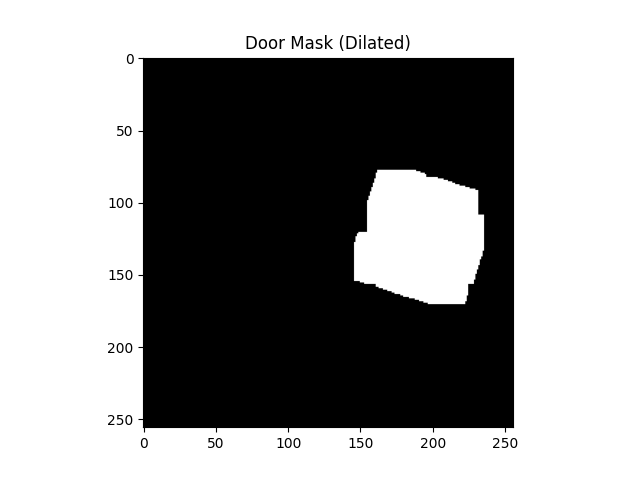
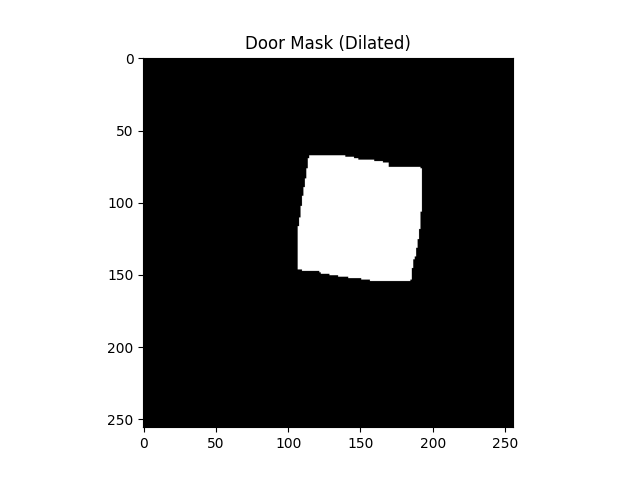
update final

Changed region(s): [[0.4375, 0.3125, 0.7812, 0.6562]]

diff --git a/final/run.py b/final/run.py
@@ -240,7 +240,7 @@ class Experiment:
         self.move_robot_joint(
             target_joint_pos=None,  # Arm doesn't move
             target_gripper_pos=self.gripper_open_val,
-            count=15, # Use a few steps to make it a smooth open
+            count=25, # Use a few steps to make it a smooth open
             time_for_residual_movement=5
         )
         
@@ -250,7 +250,7 @@ class Experiment:
         self.move_robot_joint(
             target_joint_pos=None,  # Arm doesn't move
             target_gripper_pos=self.gripper_close_val,
-            count=15, # Use a few steps to make it a smooth close
+            count=25, # Use a few steps to make it a smooth close
             time_for_residual_movement=5
         )
 
@@ -261,7 +261,7 @@ class Experiment:
     
         # Reset the environment (Relies on default states defined in task_envs.py)
         self.scene.reset()
-        
+        fixed_quat = self.robot_quat.copy()
         # Update internal robot pose trackers after reset
         self.robot_pose = self.scene['ur5e'].data.body_state_w[0, self.scene['ur5e'].find_bodies(self.ik_body)[0][0], :7].detach().cpu().numpy()
         self.robot_pos = self.robot_pose[:3]
@@ -599,16 +599,34 @@ class Experiment:
 
         blocking_ids = [info['cid'] for info in red_blocking_infos]
         
-        # 筛选出 safe cubes (不在 blocking 列表中的)
-        safe_red_infos = [info for info in red_infos if info['cid'] not in blocking_ids]
-        
+        # === 新增：定义桌子边界和安全边距 ===
+        # 根据你提供的数据
+        table_min_x, table_max_x = 0.15, 0.85
+        table_min_y, table_max_y = -0.35, 0.35
+        # 设置安全边距，例如 5cm (0.05m)，保证方块中心离边缘至少有这么远
+        edge_margin = 0.12
+
+        # === 修改：筛选 Safe Cubes (非阻挡 + 不在边缘) ===
+        safe_red_infos = []
+        for info in red_infos:
+            # 1. 排除阻挡方块
+            if info['cid'] in blocking_ids:
+                continue
+            
+            # 2. 检查是否在桌子边缘
+            cx, cy = info['stats']['centroid_xy']
+            is_on_edge = (cx < table_min_x + edge_margin) or \
+                         (cx > table_max_x - edge_margin) or \
+                         (cy < table_min_y + edge_margin) or \
+                         (cy > table_max_y - edge_margin)
+            
+            if is_on_edge:
+                print(f"  Skipping unsafe cube ID {info['cid']} (Too close to edge: {cx:.2f}, {cy:.2f})")
+                continue
+            
+            # 如果既不是阻挡，又不在边缘，则为安全
+            safe_red_infos.append(info)
         # 定义距离计算函数
-        def get_distance_to_door(info):
-            stats = info['stats']
-            # 使用物体的质心 (Centroid XY) 和顶部高度 (Top Z) 组成 3D 坐标
-            cube_pos = np.array([stats['centroid_xy'][0], stats['centroid_xy'][1], stats['top_z']])
-            return np.linalg.norm(cube_pos - door_center_3d)
-        safe_red_infos.sort(key=get_distance_to_door, reverse=True)
         
         print(f"Safe Red Cubes available: {len(safe_red_infos)}")
 
@@ -616,20 +634,18 @@ class Experiment:
         # 我们只能搬运 min(blocking数量, safe数量) 个物体
         num_to_move = min(len(red_blocking_infos), len(safe_red_infos))
         
-        
-
-        fixed_quat = self.robot_quat.copy() 
+         
         
         # 定义高度参数
-        z_travel_height = 0.50  # 搬运过程中的高空飞行高度 (非常安全)
-        z_hover_height = 0.35   # 准备抓取/放置时的悬停高度
+        z_travel_height = 0.35  # 搬运过程中的高空飞行高度 (非常安全)
+        z_hover_height = 0.4   # 准备抓取/放置时的悬停高度
         
         # 抓取高度微调 (根据你之前的需求，这里设为负数表示“悬空抓取”，正数表示“压下去抓”)
         # 如果你想“垂直下降再抓住”，建议设为 0 或者 -0.005 (稍微接触表面)
-        z_offset_grasp = 0.005 
+        z_offset_grasp = 0.012 
         z_offset_stack = 0.025
 
-        for i in range(1):
+        for i in range(num_to_move):
             block_cube = red_blocking_infos[i]
             target_base = safe_red_infos[i]
             
@@ -638,43 +654,43 @@ class Experiment:
             # --- 准备抓取数据 ---
             # 抓取位置
             pick_xy = block_cube['stats']['centroid_xy']
-            pick_z = block_cube['stats']['top_z'] 
+            pick_z = block_cube['stats']['top_z'] +z_offset_grasp
             
             # 放置位置 (目标是 Safe Cube 的顶部)
             place_xy = target_base['stats']['centroid_xy']
-            place_z = target_base['stats']['top_z'] + z_offset_stack
+            place_z = target_base['stats']['top_z'] + 0.04 + z_offset_stack
             
             # --- 动作序列 ---
-            # 1. 确保夹爪张开
-            self.open_gripper()
+         
 
             # 2. 提升到安全高度 (Lift to Travel Height)
             # 先在当前位置垂直抬升，避免横向撞击
             current_xy = self.robot_pos[:2]
-            self.move_robot_ik(np.concatenate([current_xy, [z_travel_height], fixed_quat]))
+            # self.move_robot_ik(np.concatenate([current_xy, [z_travel_height], fixed_quat]))
 
             # 3. 平移到目标正上方 (Move XY to Hover)
             # 在高空平移，此时 Z 轴不变，只变 XY
             hover_pose = np.concatenate([pick_xy, [z_travel_height], fixed_quat])
             self.move_robot_ik(hover_pose)
+            self.open_gripper()
             
             # 如果需要，可以再降到一个较低的悬停点 (Optional Pre-grasp Hover)
             pre_grasp_pose = np.concatenate([pick_xy, [z_hover_height], fixed_quat])
-            self.move_robot_ik(pre_grasp_pose)
+            # self.move_robot_ik(pre_grasp_pose)
 
             # 4. 垂直下降 (Vertical Descent)
             # 这里的关键是：XY 坐标不变，只改变 Z，且使用 fixed_quat 锁死姿态
             print("Descending vertically...")
             pick_pose = np.concatenate([pick_xy, [pick_z], fixed_quat])
             self.move_robot_ik(pick_pose)
-            self.sim_wait(15) # 等待稳定
+            self.sim_wait(10) # 等待稳定
 
             # 5. 抓取 (Grasp)
             self.close_gripper()
-            self.sim_wait(20)
+            self.sim_wait(15)
 
             # 6. 垂直抬起 (Vertical Lift)
-            self.move_robot_ik(pre_grasp_pose)      # 回到低悬停点
+            # self.move_robot_ik(pre_grasp_pose)      # 回到低悬停点
             self.move_robot_ik(hover_pose)          # 回到高空飞行点
 
             # 7. 平移到放置点正上方 (Move to Place)
@@ -682,7 +698,7 @@ class Experiment:
             self.move_robot_ik(place_hover_pose)
             
             place_pre_pose = np.concatenate([place_xy, [z_hover_height], fixed_quat])
-            self.move_robot_ik(place_pre_pose)
+            # self.move_robot_ik(place_pre_pose)
 
             # 8. 垂直下降放置 (Vertical Descent to Place)
             place_pose = np.concatenate([place_xy, [place_z], fixed_quat])
@@ -694,9 +710,183 @@ class Experiment:
             self.sim_wait(20)
 
             # 10. 垂直撤离 (Retreat)
-            self.move_robot_ik(place_pre_pose)
             self.move_robot_ik(place_hover_pose)
+            # self.move_robot_ik(place_hover_pose)
         print("Red Cube clearing completed.")
+
+        blocking_green_ids = [info['cid'] for info in green_blocking_infos]
+        
+        # 1. 筛选 Safe Green Cubes (非阻挡 + 不在边缘)
+        safe_green_infos = []
+        for info in green_infos:
+            if info['cid'] in blocking_green_ids:
+                continue
+            
+            cx, cy = info['stats']['centroid_xy']
+            # 使用之前定义的边界参数
+            is_on_edge = (cx < table_min_x + edge_margin) or \
+                         (cx > table_max_x - edge_margin) or \
+                         (cy < table_min_y + edge_margin) or \
+                         (cy > table_max_y - edge_margin)
+            
+            if is_on_edge:
+                print(f"  Skipping unsafe green cube ID {info['cid']} (Too close to edge)")
+                continue
+            
+            safe_green_infos.append(info)
+
+        
+        print(f"Safe Green Cubes available: {len(safe_green_infos)}")
+
+        # 3. 搬运循环
+        num_green_to_move = min(len(green_blocking_infos), len(safe_green_infos))
+        
+        # 绿色方块通常比红色略大 (Red=0.04, Green=0.05)
+        # 这个高度用于计算堆叠时的 Z 轴偏移
+        green_cube_height = 0.05 
+
+        for i in range(num_green_to_move):
+            block_cube = green_blocking_infos[i]
+            target_base = safe_green_infos[i]
+            
+            print(f"Moving Blocking Green Cube ID {block_cube['cid']} to Safe Green ID {target_base['cid']}")
+            
+            # --- 坐标计算 ---
+            pick_xy = block_cube['stats']['centroid_xy']
+            # 抓取高度保持一致
+            pick_z = block_cube['stats']['top_z'] + z_offset_grasp 
+            
+            place_xy = target_base['stats']['centroid_xy']
+            # 【注意】这里把 0.04 改为了 green_cube_height (0.05)，适应绿色方块的高度
+            place_z = target_base['stats']['top_z'] + green_cube_height + z_offset_stack
+            
+            # --- 动作序列 (Manhattan Path) ---
+            
+            # 1. 移动到抓取点上方 (Hover)
+            hover_pose = np.concatenate([pick_xy, [z_travel_height], fixed_quat])
+            self.move_robot_ik(hover_pose)
+            self.open_gripper()
+            
+            # 2. 垂直下降抓取 (Descend to Pick)
+            print("Descending vertically (Green)...")
+            pick_pose = np.concatenate([pick_xy, [pick_z], fixed_quat])
+            self.move_robot_ik(pick_pose)
+            self.sim_wait(10)
+
+            # 3. 闭合夹爪 (Grasp)
+            self.close_gripper()
+            self.sim_wait(15)
+
+            # 4. 垂直抬起 (Lift)
+            self.move_robot_ik(hover_pose)
+
+            # 5. 平移到放置点上方 (Move to Place Hover)
+            place_hover_pose = np.concatenate([place_xy, [z_travel_height], fixed_quat])
+            self.move_robot_ik(place_hover_pose)
+            
+            # 6. 垂直下降放置 (Descend to Place)
+            place_pose = np.concatenate([place_xy, [place_z], fixed_quat])
+            self.move_robot_ik(place_pose)
+            self.sim_wait(15)
+
+            # 7. 松开 (Release)
+            self.open_gripper()
+            self.sim_wait(20)
+
+            # 8. 撤离 (Retreat)
+            self.move_robot_ik(place_hover_pose)
+
+        print("Green Cube clearing completed.")
+        print("\n=== Performing Final Check ===")
+        
+        # 1. 把机器人移开 (Move robot away to clear view)
+        self.move_robot_ik(np.concatenate([away_pos, self.robot_quat]))
+        self.sim_wait(20)
+
+        # 2. 重新获取图像数据 (Capture new data)
+        color_raw = self.scene["birdview_camera"].data.output["rgb"].detach().cpu().numpy()[0]
+        color = color_raw[:, :, :3] if color_raw.shape[2] == 4 else color_raw
+        depth_image = np.squeeze(self.scene["birdview_camera"].data.output["depth"].detach().cpu().numpy()[0])
+        
+        # 3. 重新计算 Mask (Re-calculate Masks using existing thresholds)
+        rgb01 = np.clip(color.astype(np.float32)/255.0, 0.0, 1.0)
+        hsv = mcolors.rgb_to_hsv(rgb01)
+        h, s, v = hsv[:, :, 0], hsv[:, :, 1], hsv[:, :, 2]
+
+        # Red Mask Check
+        red1_check = (h >= h_red_low_1) & (h <= h_red_high_1) & (s >= s_min) & (v >= v_min)
+        red2_check = (h >= h_red_low_2) & (h <= h_red_high_2) & (s >= s_min) & (v >= v_min)
+        red_mask_check = red1_check | red2_check
+        red_mask_check = binary_opening(red_mask_check, structure=struct, iterations=morph_iters)
+        red_mask_check = binary_fill_holes(red_mask_check)
+        red_mask_check = binary_closing(red_mask_check, structure=struct, iterations=max(1, morph_iters // 2))
+
+        # Green Mask Check
+        green_mask_check = (h >= h_green_low) & (h <= h_green_high) & (s >= s_min) & (v >= v_min)
+        green_mask_check = binary_opening(green_mask_check, structure=struct, iterations=morph_iters)
+        green_mask_check = binary_fill_holes(green_mask_check)
+        green_mask_check = binary_closing(green_mask_check, structure=struct, iterations=max(1, morph_iters // 2))
+
+        # 4. 重新生成点云 (Re-generate Point Cloud)
+        z_c = depth_image
+        x_c = z_c * (x_pixel - cx) / fx
+        y_c = z_c * (y_pixel - cy) / fy
+        points_camera = np.stack((x_c, y_c, z_c), axis=-1).reshape(-1, 3) 
+        ones = np.ones((points_camera.shape[0], 1), dtype=points_camera.dtype)
+        points_world_h = extrinsics @ np.concatenate([points_camera, ones], axis=1).T
+        points_world = (points_world_h[:3,:] / np.clip(points_world_h[3,:], 1e-8, None)).T
+        pc_world_check = points_world.reshape(height, width, 3)
+
+        # 5. 检查剩余的 Blocking Cubes (Check remaining)
+        final_blocking_count = 0
+        
+        # Check Red
+        lab_red_check, n_red_check = label(red_mask_check.astype(np.uint8), structure=struct)
+        for cid in range(1, n_red_check + 1):
+            idx = (lab_red_check == cid)
+            pts = pc_world_check.reshape(-1, 3)[idx.flatten()]
+            pts = pts[np.isfinite(pts).all(axis=1)]
+            if pts.shape[0] == 0: continue
+            
+            # 计算新的质心
+            centroid_xy = np.nanmedian(pts[:, :2], axis=0)
+            centroid_z = float(np.nanpercentile(pts[:, 2], 95))
+            
+            # 投影回像素坐标
+            xyz_world = np.array([centroid_xy[0], centroid_xy[1], centroid_z])
+            distances_sq = np.sum((pc_world_check - xyz_world)**2, axis=2)
+            v, u = np.unravel_index(np.argmin(distances_sq), distances_sq.shape)
+            
+            # 检查是否还在门上 (Reuse door_mask)
+            if door_mask[v, u]:
+                print(f"  [WARNING] Found remaining RED blocking cube!")
+                final_blocking_count += 1
+
+        # Check Green
+        lab_green_check, n_green_check = label(green_mask_check.astype(np.uint8), structure=struct)
+        for cid in range(1, n_green_check + 1):
+            idx = (lab_green_check == cid)
+            pts = pc_world_check.reshape(-1, 3)[idx.flatten()]
+            pts = pts[np.isfinite(pts).all(axis=1)]
+            if pts.shape[0] == 0: continue
+            
+            centroid_xy = np.nanmedian(pts[:, :2], axis=0)
+            centroid_z = float(np.nanpercentile(pts[:, 2], 95))
+            
+            xyz_world = np.array([centroid_xy[0], centroid_xy[1], centroid_z])
+            distances_sq = np.sum((pc_world_check - xyz_world)**2, axis=2)
+            v, u = np.unravel_index(np.argmin(distances_sq), distances_sq.shape)
+            
+            if door_mask[v, u]:
+                print(f"  [WARNING] Found remaining GREEN blocking cube!")
+                final_blocking_count += 1
+
+        # 6. 输出最终结果
+        if final_blocking_count == 0:
+            print(f"\nSUCCESS: All blocking cubes removed! Door area is clear.")
+        else:
+            print(f"\nFAILURE: {final_blocking_count} cubes are still blocking the door.")
+            
         # steps simulation but does not command the robot
         while simulation_app.is_running():
 

diff --git a/final/task_envs.py b/final/task_envs.py
@@ -129,7 +129,7 @@ class MP2SceneCfg(InteractiveSceneCfg):
         # Random position on table (avoiding edges)
         door_x_half_size = 0.15 / 2.0 # From the scale we used
         door_y_half_size = 0.02 / 2.0 # From the scale we used
-        margin = 0.1
+        margin = 0.15
         door_x = np.random.uniform(table_min_x + door_x_half_size+margin,
                                  table_max_x - door_x_half_size - margin)
         door_y = np.random.uniform(table_min_y + door_y_half_size+margin,
